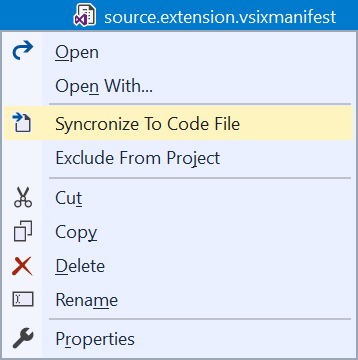
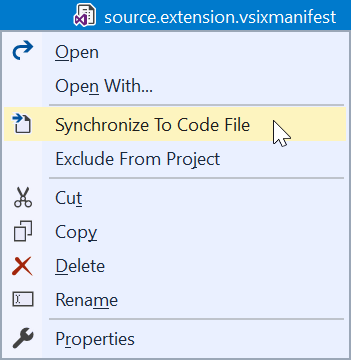
Fixed typo

diff --git a/README.md b/README.md
@@ -8,7 +8,7 @@ Download this extension from the [Open VSIX Gallery](http://vsixgallery.com/exte
 
 ---------------------------------------
 
-To enable the syncronization of .vsct and/or .vsixmanifest files, simply right-click the file in Solution Explorer and hit **Syncronize To Code File**.
+To enable the synchronization of .vsct and/or .vsixmanifest files, simply right-click the file in Solution Explorer and hit **Synchronize To Code File**.
 
 ![Context menu](art/context-menu.png)
 
